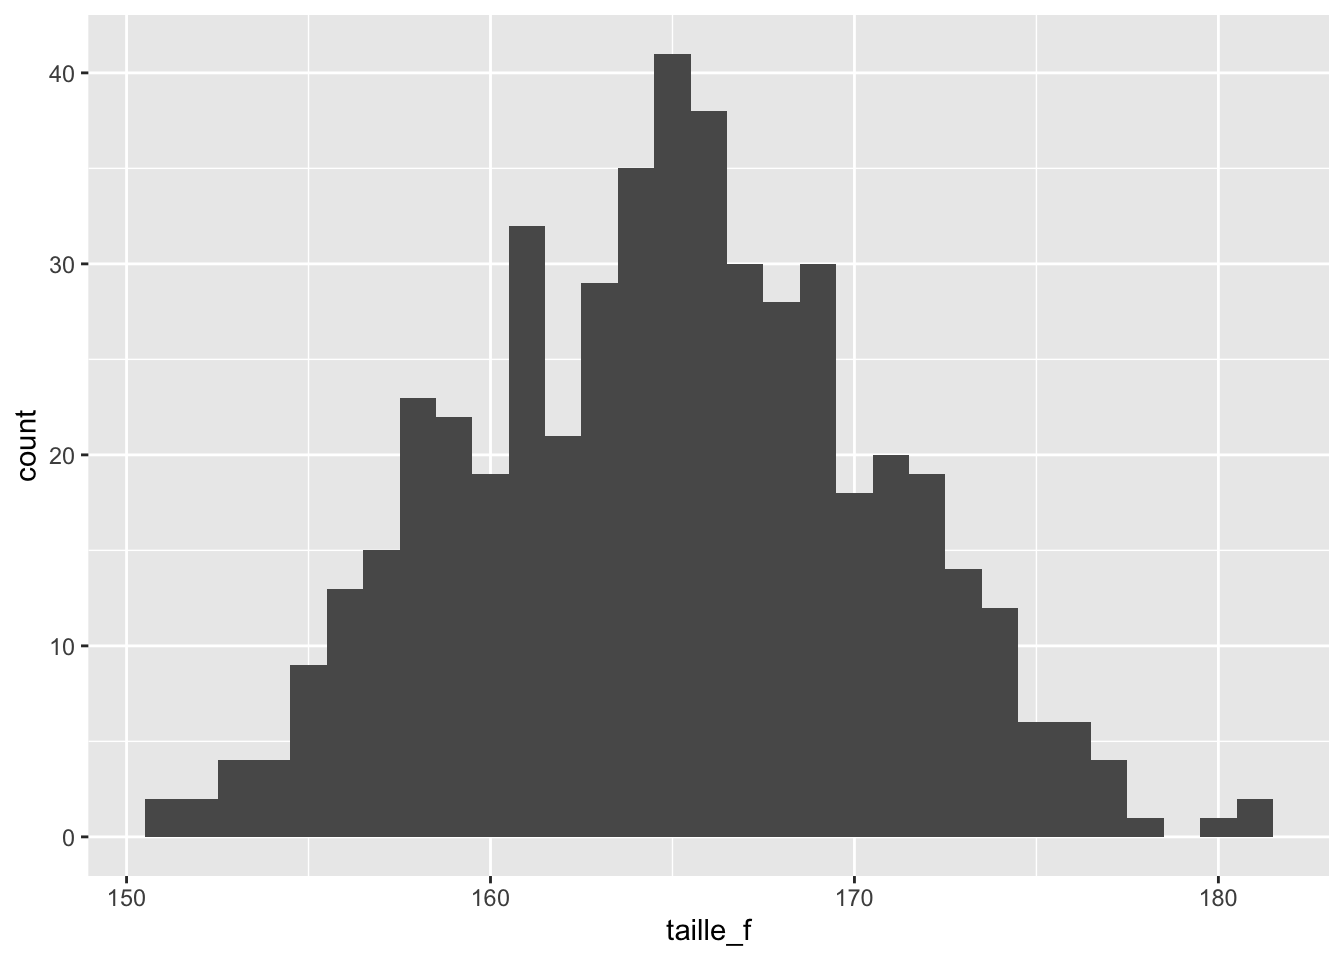
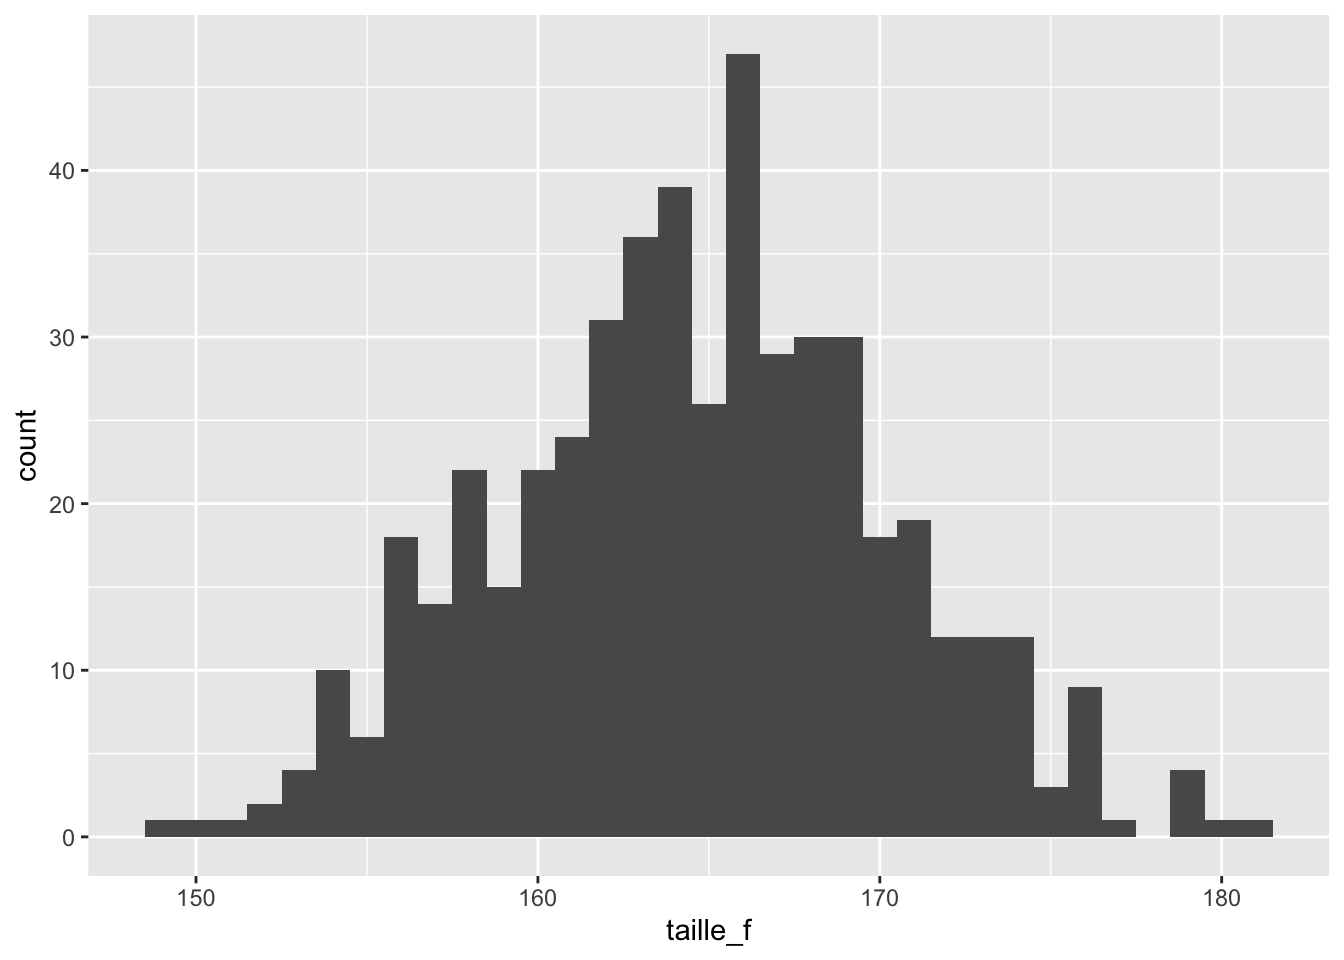
session 10 v6

diff --git a/index.html b/index.html
@@ -130,6 +130,7 @@ pre > code.sourceCode > span > a:first-child::before { text-decoration: underlin
   <li><a href="#session-10" id="toc-session-10" class="nav-link" data-scroll-target="#session-10">Session 10</a>
   <ul class="collapse">
   <li><a href="#analyse-des-réponses-au-questionnaire-1ère-partie-stats-déscriptives" id="toc-analyse-des-réponses-au-questionnaire-1ère-partie-stats-déscriptives" class="nav-link" data-scroll-target="#analyse-des-réponses-au-questionnaire-1ère-partie-stats-déscriptives">Analyse des réponses au questionnaire, 1ère partie (stats déscriptives)</a></li>
+  <li><a href="#la-fonction-write.csv" id="toc-la-fonction-write.csv" class="nav-link" data-scroll-target="#la-fonction-write.csv">La fonction <code>write.csv()</code></a></li>
   </ul></li>
   </ul>
 </nav>
@@ -1733,7 +1734,7 @@ Attention
 <span id="cb100-5"><a href="#cb100-5" aria-hidden="true" tabindex="-1"></a></span>
 <span id="cb100-6"><a href="#cb100-6" aria-hidden="true" tabindex="-1"></a><span class="fu">head</span>(taille_f)</span></code><button title="Copy to Clipboard" class="code-copy-button"><i class="bi"></i></button></pre></div>
 <div class="cell-output cell-output-stdout">
-<pre><code>[1] 160.7140 169.2228 152.4856 169.3440 157.2345 169.8558</code></pre>
+<pre><code>[1] 161.9607 165.0547 165.9874 166.8668 164.0590 160.8908</code></pre>
 </div>
 <div class="sourceCode cell-code" id="cb102"><pre class="sourceCode r code-with-copy"><code class="sourceCode r"><span id="cb102-1"><a href="#cb102-1" aria-hidden="true" tabindex="-1"></a><span class="co"># stocker taille_f comme objet de type 'data.frame'</span></span>
 <span id="cb102-2"><a href="#cb102-2" aria-hidden="true" tabindex="-1"></a>taille_f <span class="ot">&lt;-</span> <span class="fu">as.data.frame</span>(taille_f)</span>
@@ -3079,6 +3080,7 @@ Solution
 </div>
 </div>
 </div>
+<p><a href="https://www.instagram.com/p/CpLxnFlNJZn/">URL Instagram du post de Leo Messi</a></p>
 </section>
 <section id="igposts-v" class="level3">
 <h3 class="anchored" data-anchor-id="igposts-v">15 : igposts V</h3>
@@ -3119,6 +3121,7 @@ Solution
 </div>
 </div>
 </div>
+<p><a href="https://www.instagram.com/p/Co_P7YgrrFO/">URL du post Instagram de Selena Gomez</a></p>
 </section>
 <section id="igposts-vi" class="level3">
 <h3 class="anchored" data-anchor-id="igposts-vi">16 : igposts VI</h3>
@@ -3160,6 +3163,7 @@ Solution
 </div>
 </div>
 </div>
+<p><a href="https://www.instagram.com/p/CoYqX0hr1jr/">URL du post Instagram de Kendall Jenner</a></p>
 </section>
 <section id="igposts-vii" class="level3">
 <h3 class="anchored" data-anchor-id="igposts-vii">17 : igposts VII</h3>
@@ -3208,6 +3212,7 @@ Solution
 </div>
 </div>
 </div>
+<p><a href="https://www.instagram.com/p/CoptMRoJtUD/">URL du post Instagram de Anastasia Karanikolaou</a></p>
 </section>
 <section id="igposts-viii" class="level3">
 <h3 class="anchored" data-anchor-id="igposts-viii">18 : igposts VIII</h3>
@@ -3247,6 +3252,7 @@ Solution
 </div>
 </div>
 </div>
+<p><a href="https://www.instagram.com/p/CoXmBSLvj7A/">URL du post Instagram de KIARA</a></p>
 </section>
 <section id="igposts-ix" class="level3">
 <h3 class="anchored" data-anchor-id="igposts-ix">19 : igposts IX</h3>
@@ -3288,25 +3294,7 @@ Solution
 </div>
 </div>
 </div>
-</section>
-<section id="write.csv-pas-pertinent-pour-problem-set-3" class="level3">
-<h3 class="anchored" data-anchor-id="write.csv-pas-pertinent-pour-problem-set-3">20 : write.csv() (pas pertinent pour Problem Set 3)</h3>
-<div class="callout callout-style-default callout-caution callout-titled">
-<div class="callout-header d-flex align-content-center" data-bs-toggle="collapse" data-bs-target=".callout-56-contents" aria-controls="callout-56" aria-expanded="false" aria-label="Toggle callout">
-<div class="callout-icon-container">
-<i class="callout-icon"></i>
-</div>
-<div class="callout-title-container flex-fill">
-Solution
-</div>
-<div class="callout-btn-toggle d-inline-block border-0 py-1 ps-1 pe-0 float-end"><i class="callout-toggle"></i></div>
-</div>
-<div id="callout-56" class="callout-56-contents callout-collapse collapse">
-<div class="callout-body-container callout-body">
-
-</div>
-</div>
-</div>
+<p><a href="https://www.instagram.com/p/ComtUDjrPAD/">URL du post Instagram de Karol G</a></p>
 </section>
 </section>
 <section id="session-9-problem-set-3" class="level1">
@@ -3322,7 +3310,7 @@ Solution
 <div class="cell-output-display">
 <div>
 <figure class="figure">
-<p><img src="index_files/figure-html/unnamed-chunk-79-1.png" class="img-fluid figure-img" width="672"></p>
+<p><img src="index_files/figure-html/unnamed-chunk-78-1.png" class="img-fluid figure-img" width="672"></p>
 </figure>
 </div>
 </div>
@@ -3447,7 +3435,7 @@ Solution
 <div class="cell-output-display">
 <div>
 <figure class="figure">
-<p><img src="index_files/figure-html/unnamed-chunk-80-1.png" class="img-fluid figure-img" width="672"></p>
+<p><img src="index_files/figure-html/unnamed-chunk-79-1.png" class="img-fluid figure-img" width="672"></p>
 </figure>
 </div>
 </div>
@@ -3459,7 +3447,7 @@ Solution
 <div class="cell-output-display">
 <div>
 <figure class="figure">
-<p><img src="index_files/figure-html/unnamed-chunk-80-2.png" class="img-fluid figure-img" width="672"></p>
+<p><img src="index_files/figure-html/unnamed-chunk-79-2.png" class="img-fluid figure-img" width="672"></p>
 </figure>
 </div>
 </div>
@@ -3473,7 +3461,7 @@ Solution
 <div class="cell-output-display">
 <div>
 <figure class="figure">
-<p><img src="index_files/figure-html/unnamed-chunk-80-3.png" class="img-fluid figure-img" width="672"></p>
+<p><img src="index_files/figure-html/unnamed-chunk-79-3.png" class="img-fluid figure-img" width="672"></p>
 </figure>
 </div>
 </div>
@@ -3485,7 +3473,7 @@ Solution
 <div class="cell-output-display">
 <div>
 <figure class="figure">
-<p><img src="index_files/figure-html/unnamed-chunk-80-4.png" class="img-fluid figure-img" width="672"></p>
+<p><img src="index_files/figure-html/unnamed-chunk-79-4.png" class="img-fluid figure-img" width="672"></p>
 </figure>
 </div>
 </div>
@@ -3507,7 +3495,7 @@ Solution
 <div class="cell-output-display">
 <div>
 <figure class="figure">
-<p><img src="index_files/figure-html/unnamed-chunk-80-5.png" class="img-fluid figure-img" width="672"></p>
+<p><img src="index_files/figure-html/unnamed-chunk-79-5.png" class="img-fluid figure-img" width="672"></p>
 </figure>
 </div>
 </div>
@@ -3556,7 +3544,7 @@ Solution
 <div class="cell-output-display">
 <div>
 <figure class="figure">
-<p><img src="index_files/figure-html/unnamed-chunk-80-6.png" class="img-fluid figure-img" width="672"></p>
+<p><img src="index_files/figure-html/unnamed-chunk-79-6.png" class="img-fluid figure-img" width="672"></p>
 </figure>
 </div>
 </div>
@@ -3595,6 +3583,49 @@ Non Oui
 4 Oui    Oui       48</code></pre>
 </div>
 </div>
+</section>
+<section id="la-fonction-write.csv" class="level2">
+<h2 class="anchored" data-anchor-id="la-fonction-write.csv">La fonction <code>write.csv()</code></h2>
+<p>Avec R, vous ne pouvez pas seulement lire des données au format CSV (entrée de données ; avec des fonctions telles que <code>read.csv()</code>), mais vous pouvez également créer des fichiers CSV à partir de votre session en cours (sortie de données), notamment avec la fonction <code>write.csv()</code> !</p>
+<p>La syntaxe de la fonction nécessite comme arguments le nom du data frame que vous voulez sauvegarder comme CSV ainsi que le chemin du fichier sur votre ordinateur qui inclut le nom que vous voulez donner au ficher CSV : <code>write.csv(nom_df, "chemin_du_fichier/nom_du_ficher.csv")</code></p>
+<div class="cell">
+<div class="sourceCode cell-code" id="cb206"><pre class="sourceCode r code-with-copy"><code class="sourceCode r"><span id="cb206-1"><a href="#cb206-1" aria-hidden="true" tabindex="-1"></a><span class="co"># Voici un exemple avec du code (recréons le tableau avec</span></span>
+<span id="cb206-2"><a href="#cb206-2" aria-hidden="true" tabindex="-1"></a><span class="co"># les animaux de Ice Age !)</span></span>
+<span id="cb206-3"><a href="#cb206-3" aria-hidden="true" tabindex="-1"></a></span>
+<span id="cb206-4"><a href="#cb206-4" aria-hidden="true" tabindex="-1"></a>name <span class="ot">&lt;-</span> <span class="fu">c</span>(<span class="st">"Manny"</span>, <span class="st">"Sid"</span>, <span class="st">"Diego"</span>, <span class="st">"Ellie"</span>, <span class="st">"Peaches"</span>, <span class="st">"Scrat"</span>,</span>
+<span id="cb206-5"><a href="#cb206-5" aria-hidden="true" tabindex="-1"></a>    <span class="st">"Rudy"</span>, <span class="st">"Buck"</span>)</span>
+<span id="cb206-6"><a href="#cb206-6" aria-hidden="true" tabindex="-1"></a></span>
+<span id="cb206-7"><a href="#cb206-7" aria-hidden="true" tabindex="-1"></a>species <span class="ot">&lt;-</span> <span class="fu">c</span>(<span class="st">"mammoth"</span>, <span class="st">"sloth"</span>, <span class="st">"sabertooth"</span>, <span class="st">"mammoth"</span>, <span class="st">"mammoth"</span>,</span>
+<span id="cb206-8"><a href="#cb206-8" aria-hidden="true" tabindex="-1"></a>    <span class="st">"squirrel"</span>, <span class="st">"dinosaur"</span>, <span class="st">"weasel"</span>)</span>
+<span id="cb206-9"><a href="#cb206-9" aria-hidden="true" tabindex="-1"></a></span>
+<span id="cb206-10"><a href="#cb206-10" aria-hidden="true" tabindex="-1"></a>female <span class="ot">&lt;-</span> <span class="fu">c</span>(<span class="cn">FALSE</span>, <span class="cn">FALSE</span>, <span class="cn">FALSE</span>, <span class="cn">TRUE</span>, <span class="cn">TRUE</span>, <span class="cn">FALSE</span>, <span class="cn">FALSE</span>, <span class="cn">FALSE</span>)</span>
+<span id="cb206-11"><a href="#cb206-11" aria-hidden="true" tabindex="-1"></a></span>
+<span id="cb206-12"><a href="#cb206-12" aria-hidden="true" tabindex="-1"></a>age <span class="ot">&lt;-</span> <span class="fu">c</span>(<span class="dv">30</span>, <span class="dv">20</span>, <span class="dv">35</span>, <span class="dv">25</span>, <span class="dv">7</span>, <span class="dv">4</span>, <span class="dv">100</span>, <span class="dv">28</span>)</span>
+<span id="cb206-13"><a href="#cb206-13" aria-hidden="true" tabindex="-1"></a></span>
+<span id="cb206-14"><a href="#cb206-14" aria-hidden="true" tabindex="-1"></a>weight <span class="ot">&lt;-</span> <span class="fu">c</span>(<span class="dv">5000</span>, <span class="dv">80</span>, <span class="dv">400</span>, <span class="dv">4000</span>, <span class="dv">1000</span>, <span class="dv">1</span>, <span class="dv">10000</span>, <span class="dv">3</span>)</span>
+<span id="cb206-15"><a href="#cb206-15" aria-hidden="true" tabindex="-1"></a></span>
+<span id="cb206-16"><a href="#cb206-16" aria-hidden="true" tabindex="-1"></a>ice_age_df <span class="ot">&lt;-</span> <span class="fu">data.frame</span>(name, species, female, age, weight)</span>
+<span id="cb206-17"><a href="#cb206-17" aria-hidden="true" tabindex="-1"></a></span>
+<span id="cb206-18"><a href="#cb206-18" aria-hidden="true" tabindex="-1"></a><span class="fu">print</span>(ice_age_df)</span></code><button title="Copy to Clipboard" class="code-copy-button"><i class="bi"></i></button></pre></div>
+<div class="cell-output cell-output-stdout">
+<pre><code>     name    species female age weight
+1   Manny    mammoth  FALSE  30   5000
+2     Sid      sloth  FALSE  20     80
+3   Diego sabertooth  FALSE  35    400
+4   Ellie    mammoth   TRUE  25   4000
+5 Peaches    mammoth   TRUE   7   1000
+6   Scrat   squirrel  FALSE   4      1
+7    Rudy   dinosaur  FALSE 100  10000
+8    Buck     weasel  FALSE  28      3</code></pre>
+</div>
+<div class="sourceCode cell-code" id="cb208"><pre class="sourceCode r code-with-copy"><code class="sourceCode r"><span id="cb208-1"><a href="#cb208-1" aria-hidden="true" tabindex="-1"></a><span class="co"># Maintenant, notre but est de créer un ficher CSV qui</span></span>
+<span id="cb208-2"><a href="#cb208-2" aria-hidden="true" tabindex="-1"></a><span class="co"># contient les données du data frame ice_age_df Il faut</span></span>
+<span id="cb208-3"><a href="#cb208-3" aria-hidden="true" tabindex="-1"></a><span class="co"># adapter le chemin du fichier suivant pour qu'il marche</span></span>
+<span id="cb208-4"><a href="#cb208-4" aria-hidden="true" tabindex="-1"></a><span class="co"># sur votre ordinateur :</span></span>
+<span id="cb208-5"><a href="#cb208-5" aria-hidden="true" tabindex="-1"></a></span>
+<span id="cb208-6"><a href="#cb208-6" aria-hidden="true" tabindex="-1"></a><span class="fu">write.csv</span>(ice_age_df, <span class="at">file =</span> <span class="st">"/Users/domus_julian/Documents/GitHub/intro-a-R/code/ice_age_df.csv"</span>)</span></code><button title="Copy to Clipboard" class="code-copy-button"><i class="bi"></i></button></pre></div>
+</div>
+<p>Si tout a bien marché, vous devrez maintenant avoir un ficher CSV, nommé <code>ice_age_df.csv</code>dans votre répértoire de travail !</p>
 </section>
 </section>
 
